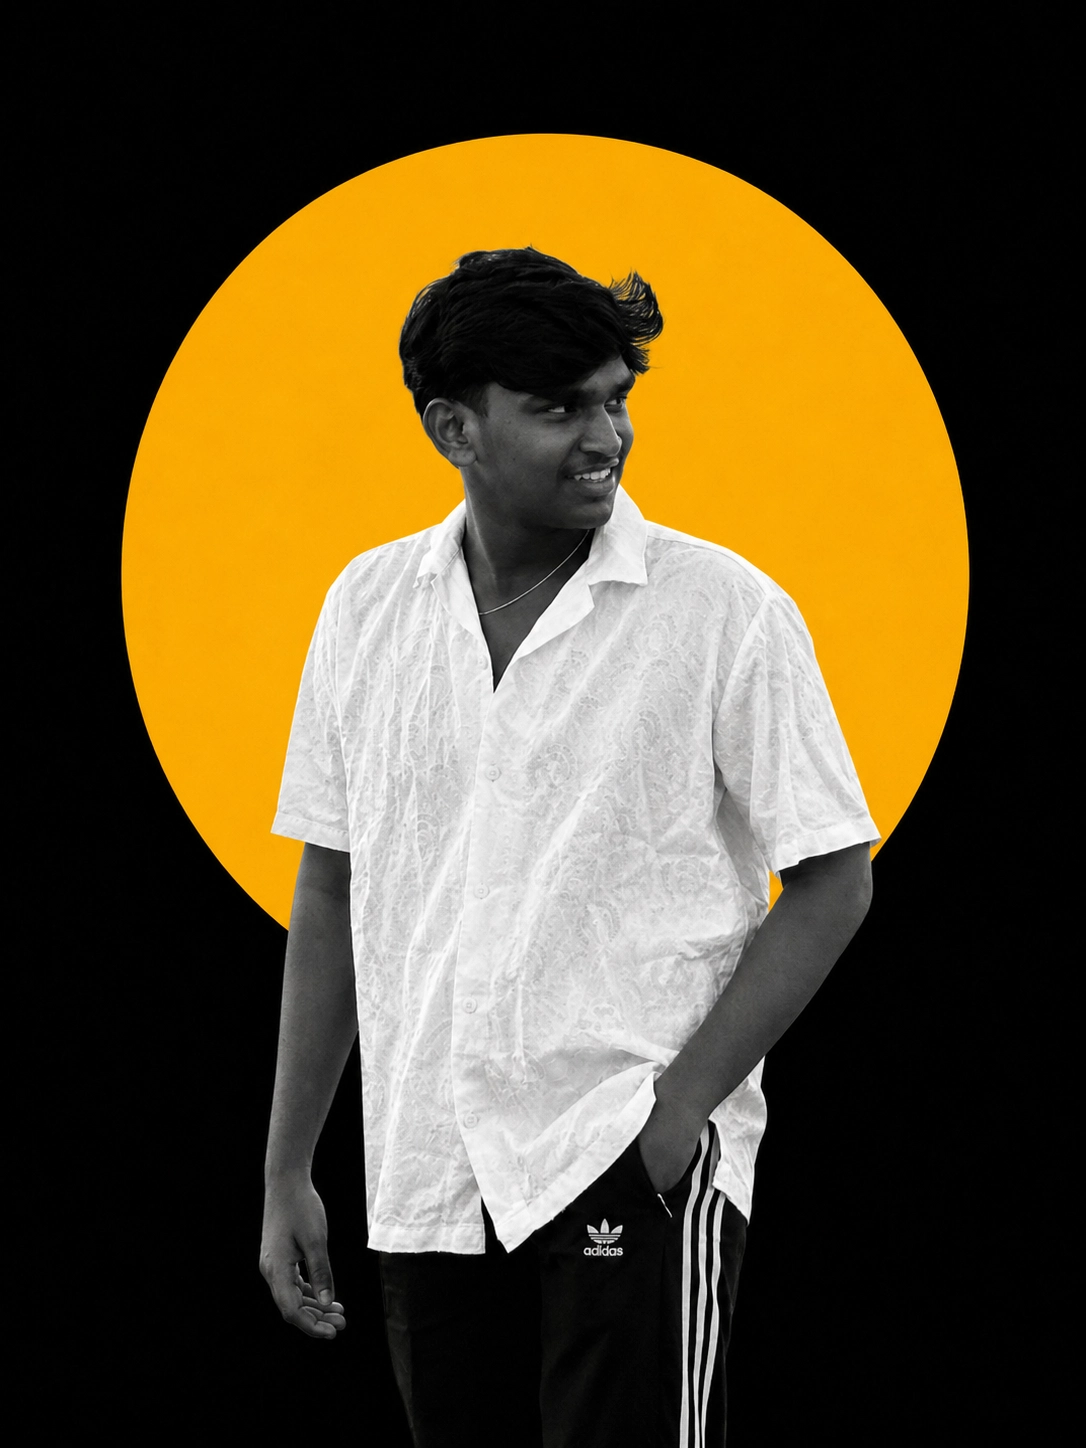
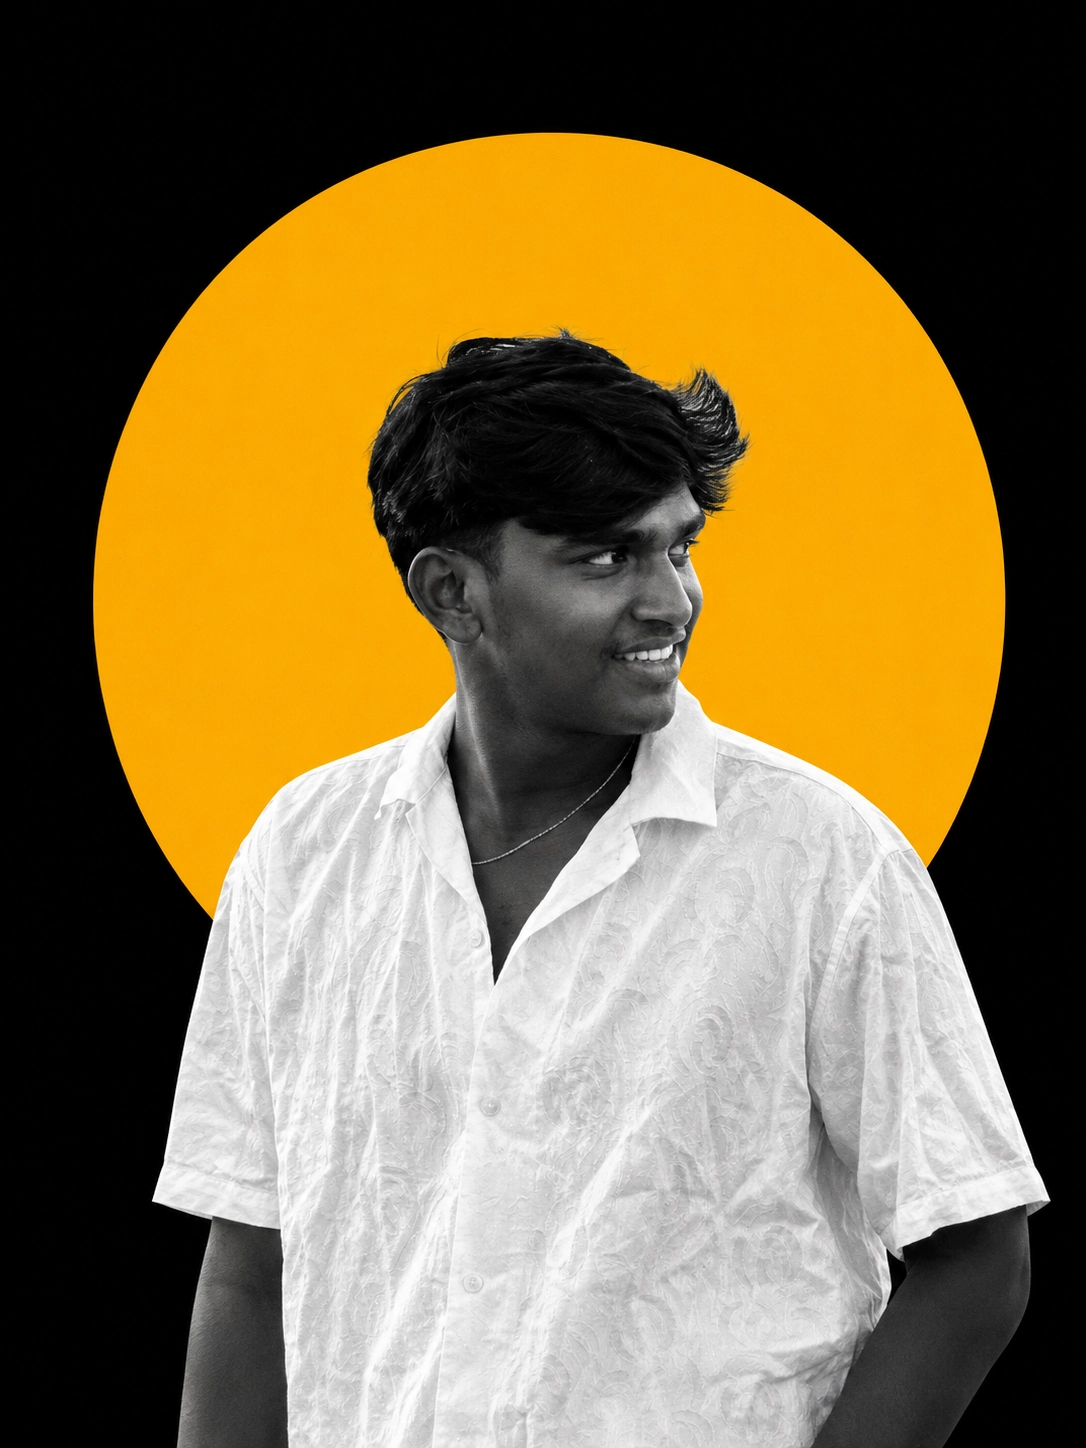
Rakesh Is Legend !!!!!!

diff --git a/frontend/src/data/modalContent.js b/frontend/src/data/modalContent.js
@@ -64,8 +64,8 @@ export const modalContent = {
         id: "registration-start",
         name: "REGISTRATION START",
         icon: "register",
-        date: "[DATE]",
-        time: "[TIME]",
+        date: "12.09.2026",
+        time: "8:00",
         detail:
           "Desks open in the main foyer. Carry your college ID and the confirmation sent to your email.",
       },
@@ -73,8 +73,8 @@ export const modalContent = {
         id: "registration-end",
         name: "REGISTRATION END",
         icon: "clipboard",
-        date: "[DATE]",
-        time: "[TIME]",
+        date: "12.09.2026",
+        time: "9:00",
         detail:
           "Last call for on-desk registration. Brackets are locked after this point.",
       },
@@ -82,8 +82,8 @@ export const modalContent = {
         id: "inauguration-start",
         name: "INAUGURATION START",
         icon: "spark",
-        date: "[DATE]",
-        time: "[TIME]",
+        date: "12.09.2026",
+        time: "9:00",
         detail:
           "Formal opening of Zyverse 2K26, with an address from the department and the chief guest.",
       },
@@ -91,8 +91,8 @@ export const modalContent = {
         id: "event-commencement",
         name: "EVENT COMMENCEMENT",
         icon: "rocket",
-        date: "[DATE]",
-        time: "[TIME]",
+        date: "12.09.2026",
+        time: "10:00",
         detail:
           "All five events begin in parallel. Report to your assigned hall ten minutes ahead.",
       },
@@ -100,8 +100,8 @@ export const modalContent = {
         id: "lunch-break",
         name: "LUNCH BREAK",
         icon: "lunch",
-        date: "[DATE]",
-        time: "[TIME]",
+        date: "12.09.2026",
+        time: "12:30",
         detail:
           "Rounds in progress pause here and resume from the same state afterwards.",
       },
@@ -109,8 +109,8 @@ export const modalContent = {
         id: "event-resuming",
         name: "EVENT RESUMING",
         icon: "resume",
-        date: "[DATE]",
-        time: "[TIME]",
+        date: "12.09.2026",
+        time: "01:30",
         detail:
           "Afternoon rounds begin, running through to the finals of every event.",
       },
@@ -118,8 +118,8 @@ export const modalContent = {
         id: "valedictory",
         name: "PRIZE DISTRIBUTION & VALEDICTORY CEREMONY",
         icon: "trophy",
-        date: "[DATE]",
-        time: "[TIME]",
+        date: "12.09.2026",
+        time: "03:00",
         detail:
           "Winners announced across all five events, the ₹12,000/- prize pool distributed, then the closing ceremony.",
       },
@@ -225,19 +225,19 @@ export const modalContent = {
       {
         id: "team-treasurer",
         portrait: "/images/team/Rakesh.webp",
-        name: "Rakesh Kannan C K",
+        name: "Rakesh Kannan",
         designation: "Treasurer & Souvenir",
       },
       {
         id: "team-administrative",
         portrait: "/images/team/Durai.webp",
-        name: "Durai R",
+        name: "Durai",
         designation: "Administrative & Iron Throne Event Head",
       },
       {
         id: "team-anchoring",
-        portrait: null,
-        name: "Sreelaya S",
+        portrait: "/images/team/Sreelaya.webp",
+        name: "Sreelaya",
         designation: "Anchoring",
       },
       {
@@ -264,7 +264,7 @@ export const modalContent = {
       {
         id: "team-tessarions-trail",
         portrait: "/images/team/Saajith.webp",
-        name: "Saajith Ms",
+        name: "Saajith",
         designation: "Event Organizer — Tessarion's Trail",
       },
       {
@@ -284,7 +284,7 @@ export const modalContent = {
       {
         id: "team-discipline",
         portrait: "/images/team/Saahith.webp",
-        name: "Saahith G",
+        name: "Saahith",
         designation: "Discipline Committee Head",
       },
       {
@@ -295,8 +295,8 @@ export const modalContent = {
       },
       {
         id: "team-design",
-        portrait: null,
-        name: "Naveen N",
+        portrait: "/images/team/Naveen.webp",
+        name: "Naveen",
         designation: "Designing & Documentation Head",
       },
       {
@@ -308,7 +308,7 @@ export const modalContent = {
       {
         id: "team-reception",
         portrait: "/images/team/ShanmugaPriya.webp",
-        name: "Shamuga Priya",
+        name: "Shunmuga Priya",
         designation: "Reception Head",
       },
       {
@@ -320,7 +320,7 @@ export const modalContent = {
       {
         id: "team-decoration",
         portrait: "/images/team/Harish.webp",
-        name: "Harish K",
+        name: "Harish",
         designation: "Decoration Head",
       },
       {
